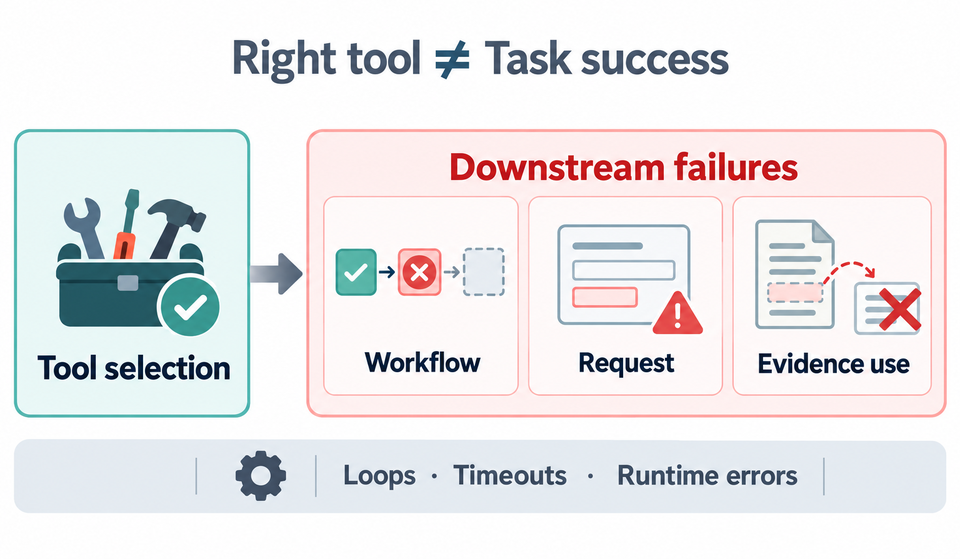
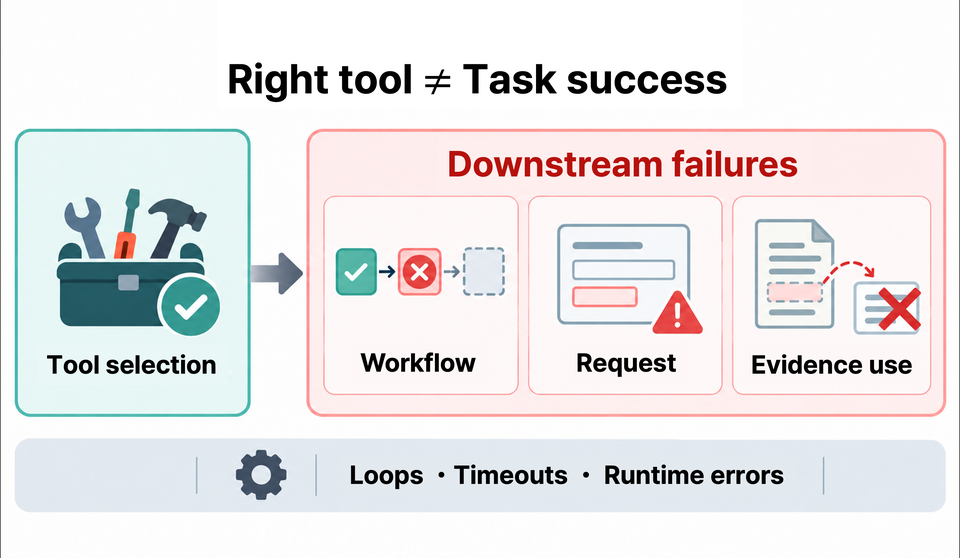
Refine publication link chips and figures

diff --git a/publications/index.html b/publications/index.html
@@ -25,7 +25,7 @@
       href="https://fonts.googleapis.com/css2?family=Inter:wght@400;500;600;700;800&amp;display=swap"
       rel="stylesheet"
     />
-    <link rel="stylesheet" href="../styles.css?v=7" />
+    <link rel="stylesheet" href="../styles.css?v=8" />
     <script src="../script.js" defer></script>
   </head>
   <body>
@@ -82,7 +82,7 @@
               Minchan Kim*, <strong>Sungho Bae*</strong>, Youngjin Kim, Hyunwoo Park
             </p>
             <ul class="pub-links">
-              <li><a class="is-arxiv" href="https://arxiv.org/abs/2610.19349" target="_blank" rel="noreferrer"><svg viewBox="0 0 24 24" aria-hidden="true"><path d="M4.6 4.3c2.3 0 3.6 1.7 4.8 4.4l5.4 11.5c.9 2 2.1 2.9 3.6 2.9"/><path d="M19 4.3 7.1 22"/></svg><span>arXiv</span></a></li>
+              <li><a class="is-arxiv" href="https://arxiv.org/abs/2610.19349" target="_blank" rel="noreferrer"><svg class="ico-arxiv" viewBox="0 0 24 24" aria-hidden="true"><path class="x-grey" d="M19.4 3.3 12 12l7.4 8.7"/><path class="x-red" d="M4.6 3.3 12 12l-7.4 8.7"/></svg><span>arXiv</span></a></li>
             </ul>
           </li>
 
@@ -125,11 +125,12 @@
                 Wonhee Lee, Hyunwoo Park
               </p>
               <p class="pub-venue">
-                <em>ACM SIGKDD</em>, 2026<span class="pub-tag">Oral</span>
+                <em>ACM SIGKDD</em>, 2026 <strong class="pub-highlight">(Oral)</strong>
               </p>
               <ul class="pub-links">
-                <li><a class="is-arxiv" href="https://arxiv.org/abs/2606.29721" target="_blank" rel="noreferrer"><svg viewBox="0 0 24 24" aria-hidden="true"><path d="M4.6 4.3c2.3 0 3.6 1.7 4.8 4.4l5.4 11.5c.9 2 2.1 2.9 3.6 2.9"/><path d="M19 4.3 7.1 22"/></svg><span>arXiv</span></a></li>
-                <li><a class="is-code" href="https://github.com/snudial/open-maritime-anomaly-detection" target="_blank" rel="noreferrer"><svg viewBox="0 0 24 24" aria-hidden="true"><path d="m8.5 8.5-5 3.5 5 3.5"/><path d="m15.5 8.5 5 3.5-5 3.5"/><path d="m13.5 4.5-3 15"/></svg><span>Code</span></a></li>
+                <li><a class="is-site" href="https://jaeeunseo.github.io/KDD26-AD/" target="_blank" rel="noreferrer"><svg viewBox="0 0 24 24" aria-hidden="true"><circle cx="12" cy="12" r="9"/><path d="M3.2 9.5h17.6M3.2 14.5h17.6"/><path d="M12 3a14 14 0 0 1 0 18 14 14 0 0 1 0-18Z"/></svg><span>Website</span></a></li>
+                <li><a class="is-arxiv" href="https://arxiv.org/abs/2606.29721" target="_blank" rel="noreferrer"><svg class="ico-arxiv" viewBox="0 0 24 24" aria-hidden="true"><path class="x-grey" d="M19.4 3.3 12 12l7.4 8.7"/><path class="x-red" d="M4.6 3.3 12 12l-7.4 8.7"/></svg><span>arXiv</span></a></li>
+                <li><a class="is-code" href="https://github.com/snudial/open-maritime-anomaly-detection" target="_blank" rel="noreferrer"><svg class="ico-fill" viewBox="0 0 24 24" aria-hidden="true"><path d="M12 .297c-6.63 0-12 5.373-12 12 0 5.303 3.438 9.8 8.205 11.385.6.113.82-.258.82-.577 0-.285-.01-1.04-.015-2.04-3.338.724-4.042-1.61-4.042-1.61C4.422 18.07 3.633 17.7 3.633 17.7c-1.087-.744.084-.729.084-.729 1.205.084 1.838 1.236 1.838 1.236 1.07 1.835 2.809 1.305 3.495.998.108-.776.417-1.305.76-1.605-2.665-.3-5.466-1.332-5.466-5.93 0-1.31.465-2.38 1.235-3.22-.135-.303-.54-1.523.105-3.176 0 0 1.005-.322 3.3 1.23.96-.267 1.98-.399 3-.405 1.02.006 2.04.138 3 .405 2.28-1.552 3.285-1.23 3.285-1.23.645 1.653.24 2.873.12 3.176.765.84 1.23 1.91 1.23 3.22 0 4.61-2.805 5.625-5.475 5.92.42.36.81 1.096.81 2.22 0 1.606-.015 2.896-.015 3.286 0 .315.21.69.825.57C20.565 22.092 24 17.592 24 12.297c0-6.627-5.373-12-12-12Z"/></svg><span>Code</span></a></li>
               </ul>
             </div>
           </li>
@@ -161,7 +162,7 @@
 
           <li class="pub">
             <a class="pub-thumb" href="https://openreview.net/forum?id=PPculVvgEd" target="_blank" rel="noreferrer">
-              <img src="../assets/teaser/bae2026toolfailures.png?v=2" alt="Right tool does not mean task success: after correct tool selection, agents still fail on workflow, request construction, and evidence use" loading="lazy" />
+              <img src="../assets/teaser/bae2026toolfailures.png?v=3" alt="Right tool does not mean task success: after correct tool selection, agents still fail on workflow, request construction, and evidence use" loading="lazy" />
             </a>
             <div class="pub-body">
               <h3>
@@ -198,7 +199,7 @@
               </p>
               <p class="pub-venue"><em>NeurIPS Workshop on AI for Science</em>, 2025<span class="pub-tag">Best Poster</span></p>
               <ul class="pub-links">
-                <li><a class="is-arxiv" href="https://arxiv.org/abs/2512.20086" target="_blank" rel="noreferrer"><svg viewBox="0 0 24 24" aria-hidden="true"><path d="M4.6 4.3c2.3 0 3.6 1.7 4.8 4.4l5.4 11.5c.9 2 2.1 2.9 3.6 2.9"/><path d="M19 4.3 7.1 22"/></svg><span>arXiv</span></a></li>
+                <li><a class="is-arxiv" href="https://arxiv.org/abs/2512.20086" target="_blank" rel="noreferrer"><svg class="ico-arxiv" viewBox="0 0 24 24" aria-hidden="true"><path class="x-grey" d="M19.4 3.3 12 12l7.4 8.7"/><path class="x-red" d="M4.6 3.3 12 12l-7.4 8.7"/></svg><span>arXiv</span></a></li>
               </ul>
             </div>
           </li>

diff --git a/index.html b/index.html
@@ -34,7 +34,7 @@
       href="https://fonts.googleapis.com/css2?family=Inter:wght@400;500;600;700;800&amp;display=swap"
       rel="stylesheet"
     />
-    <link rel="stylesheet" href="styles.css?v=7" />
+    <link rel="stylesheet" href="styles.css?v=8" />
     <script src="script.js" defer></script>
     <script type="application/ld+json">
       {
@@ -193,7 +193,7 @@
               Minchan Kim*, <strong>Sungho Bae*</strong>, Youngjin Kim, Hyunwoo Park
             </p>
             <ul class="pub-links">
-              <li><a class="is-arxiv" href="https://arxiv.org/abs/2610.19349" target="_blank" rel="noreferrer"><svg viewBox="0 0 24 24" aria-hidden="true"><path d="M4.6 4.3c2.3 0 3.6 1.7 4.8 4.4l5.4 11.5c.9 2 2.1 2.9 3.6 2.9"/><path d="M19 4.3 7.1 22"/></svg><span>arXiv</span></a></li>
+              <li><a class="is-arxiv" href="https://arxiv.org/abs/2610.19349" target="_blank" rel="noreferrer"><svg class="ico-arxiv" viewBox="0 0 24 24" aria-hidden="true"><path class="x-grey" d="M19.4 3.3 12 12l7.4 8.7"/><path class="x-red" d="M4.6 3.3 12 12l-7.4 8.7"/></svg><span>arXiv</span></a></li>
             </ul>
           </li>
 
@@ -241,11 +241,12 @@
                 Wonhee Lee, Hyunwoo Park
               </p>
               <p class="pub-venue">
-                <em>ACM SIGKDD</em>, 2026<span class="pub-tag">Oral</span>
+                <em>ACM SIGKDD</em>, 2026 <strong class="pub-highlight">(Oral)</strong>
               </p>
               <ul class="pub-links">
-                <li><a class="is-arxiv" href="https://arxiv.org/abs/2606.29721" target="_blank" rel="noreferrer"><svg viewBox="0 0 24 24" aria-hidden="true"><path d="M4.6 4.3c2.3 0 3.6 1.7 4.8 4.4l5.4 11.5c.9 2 2.1 2.9 3.6 2.9"/><path d="M19 4.3 7.1 22"/></svg><span>arXiv</span></a></li>
-                <li><a class="is-code" href="https://github.com/snudial/open-maritime-anomaly-detection" target="_blank" rel="noreferrer"><svg viewBox="0 0 24 24" aria-hidden="true"><path d="m8.5 8.5-5 3.5 5 3.5"/><path d="m15.5 8.5 5 3.5-5 3.5"/><path d="m13.5 4.5-3 15"/></svg><span>Code</span></a></li>
+                <li><a class="is-site" href="https://jaeeunseo.github.io/KDD26-AD/" target="_blank" rel="noreferrer"><svg viewBox="0 0 24 24" aria-hidden="true"><circle cx="12" cy="12" r="9"/><path d="M3.2 9.5h17.6M3.2 14.5h17.6"/><path d="M12 3a14 14 0 0 1 0 18 14 14 0 0 1 0-18Z"/></svg><span>Website</span></a></li>
+                <li><a class="is-arxiv" href="https://arxiv.org/abs/2606.29721" target="_blank" rel="noreferrer"><svg class="ico-arxiv" viewBox="0 0 24 24" aria-hidden="true"><path class="x-grey" d="M19.4 3.3 12 12l7.4 8.7"/><path class="x-red" d="M4.6 3.3 12 12l-7.4 8.7"/></svg><span>arXiv</span></a></li>
+                <li><a class="is-code" href="https://github.com/snudial/open-maritime-anomaly-detection" target="_blank" rel="noreferrer"><svg class="ico-fill" viewBox="0 0 24 24" aria-hidden="true"><path d="M12 .297c-6.63 0-12 5.373-12 12 0 5.303 3.438 9.8 8.205 11.385.6.113.82-.258.82-.577 0-.285-.01-1.04-.015-2.04-3.338.724-4.042-1.61-4.042-1.61C4.422 18.07 3.633 17.7 3.633 17.7c-1.087-.744.084-.729.084-.729 1.205.084 1.838 1.236 1.838 1.236 1.07 1.835 2.809 1.305 3.495.998.108-.776.417-1.305.76-1.605-2.665-.3-5.466-1.332-5.466-5.93 0-1.31.465-2.38 1.235-3.22-.135-.303-.54-1.523.105-3.176 0 0 1.005-.322 3.3 1.23.96-.267 1.98-.399 3-.405 1.02.006 2.04.138 3 .405 2.28-1.552 3.285-1.23 3.285-1.23.645 1.653.24 2.873.12 3.176.765.84 1.23 1.91 1.23 3.22 0 4.61-2.805 5.625-5.475 5.92.42.36.81 1.096.81 2.22 0 1.606-.015 2.896-.015 3.286 0 .315.21.69.825.57C20.565 22.092 24 17.592 24 12.297c0-6.627-5.373-12-12-12Z"/></svg><span>Code</span></a></li>
               </ul>
             </div>
           </li>
@@ -277,7 +278,7 @@
 
           <li class="pub">
             <a class="pub-thumb" href="https://openreview.net/forum?id=PPculVvgEd" target="_blank" rel="noreferrer">
-              <img src="assets/teaser/bae2026toolfailures.png?v=2" alt="Right tool does not mean task success: after correct tool selection, agents still fail on workflow, request construction, and evidence use" loading="lazy" />
+              <img src="assets/teaser/bae2026toolfailures.png?v=3" alt="Right tool does not mean task success: after correct tool selection, agents still fail on workflow, request construction, and evidence use" loading="lazy" />
             </a>
             <div class="pub-body">
               <h3>

diff --git a/styles.css b/styles.css
@@ -29,6 +29,7 @@
   /* semantic */
   --name: #1f2328;
   --author: #5c6470;
+  --highlight: #a4262c;
   --tag: #8a5a2b;
   --tag-bg: rgba(138, 90, 43, 0.09);
   --tag-border: rgba(138, 90, 43, 0.3);
@@ -69,6 +70,7 @@
 
   --name: #f2f4f6;
   --author: #a5adb8;
+  --highlight: #ef8f93;
   --tag: #d7a877;
   --tag-bg: rgba(215, 168, 119, 0.13);
   --tag-border: rgba(215, 168, 119, 0.34);
@@ -548,6 +550,13 @@ button:focus-visible {
   font-weight: 550;
 }
 
+.pub-highlight {
+  margin-left: 3px;
+  color: var(--highlight);
+  font-weight: 700;
+  font-style: normal;
+}
+
 .pub-tag {
   display: inline-block;
   margin-left: 8px;
@@ -568,8 +577,8 @@ button:focus-visible {
 .pub-links {
   display: flex;
   flex-wrap: wrap;
-  gap: 8px;
-  margin: 12px 0 0;
+  gap: 6px;
+  margin: 10px 0 0;
   padding: 0;
   list-style: none;
 }
@@ -580,15 +589,15 @@ button:focus-visible {
   --chip-tint: var(--accent-soft);
   display: inline-flex;
   align-items: center;
-  gap: 6px;
-  padding: 3px 11px;
+  gap: 5px;
+  padding: 2.5px 9px;
   border: 1px solid transparent;
-  border-radius: 999px;
+  border-radius: 6px;
   background: var(--chip-tint);
   color: var(--chip-ink);
-  font-size: 12.5px;
+  font-size: 11.5px;
   font-weight: 650;
-  line-height: 1.75;
+  line-height: 1.5;
   transition: filter 140ms ease, border-color 140ms ease;
 }
 
@@ -600,13 +609,32 @@ button:focus-visible {
 
 .pub-links svg {
   flex: 0 0 auto;
-  width: 13px;
-  height: 13px;
+  width: 12px;
+  height: 12px;
   fill: none;
   stroke: currentColor;
   stroke-width: 2;
   stroke-linecap: round;
   stroke-linejoin: round;
+}
+
+/* Brand marks carry their own geometry and colour, so they opt out of the
+   stroke defaults above. */
+.pub-links svg.ico-fill {
+  fill: currentColor;
+  stroke: none;
+}
+
+.pub-links svg.ico-arxiv {
+  stroke-width: 3.2;
+}
+
+.pub-links svg.ico-arxiv .x-red {
+  stroke: #b31b1b;
+}
+
+.pub-links svg.ico-arxiv .x-grey {
+  stroke: #bdb9b4;
 }
 
 .pub-links .is-site  { --chip-ink: #2563eb; --chip-tint: rgba(37, 99, 235, 0.10); }
@@ -939,9 +967,11 @@ button:focus-visible {
 }
 
 .pub-tag.is-muted {
+  padding: 1px 6px;
   border-color: var(--hairline-strong);
   background: transparent;
   color: var(--faint);
   margin-left: 0;
+  font-size: 9.5px;
   font-weight: 650;
 }
